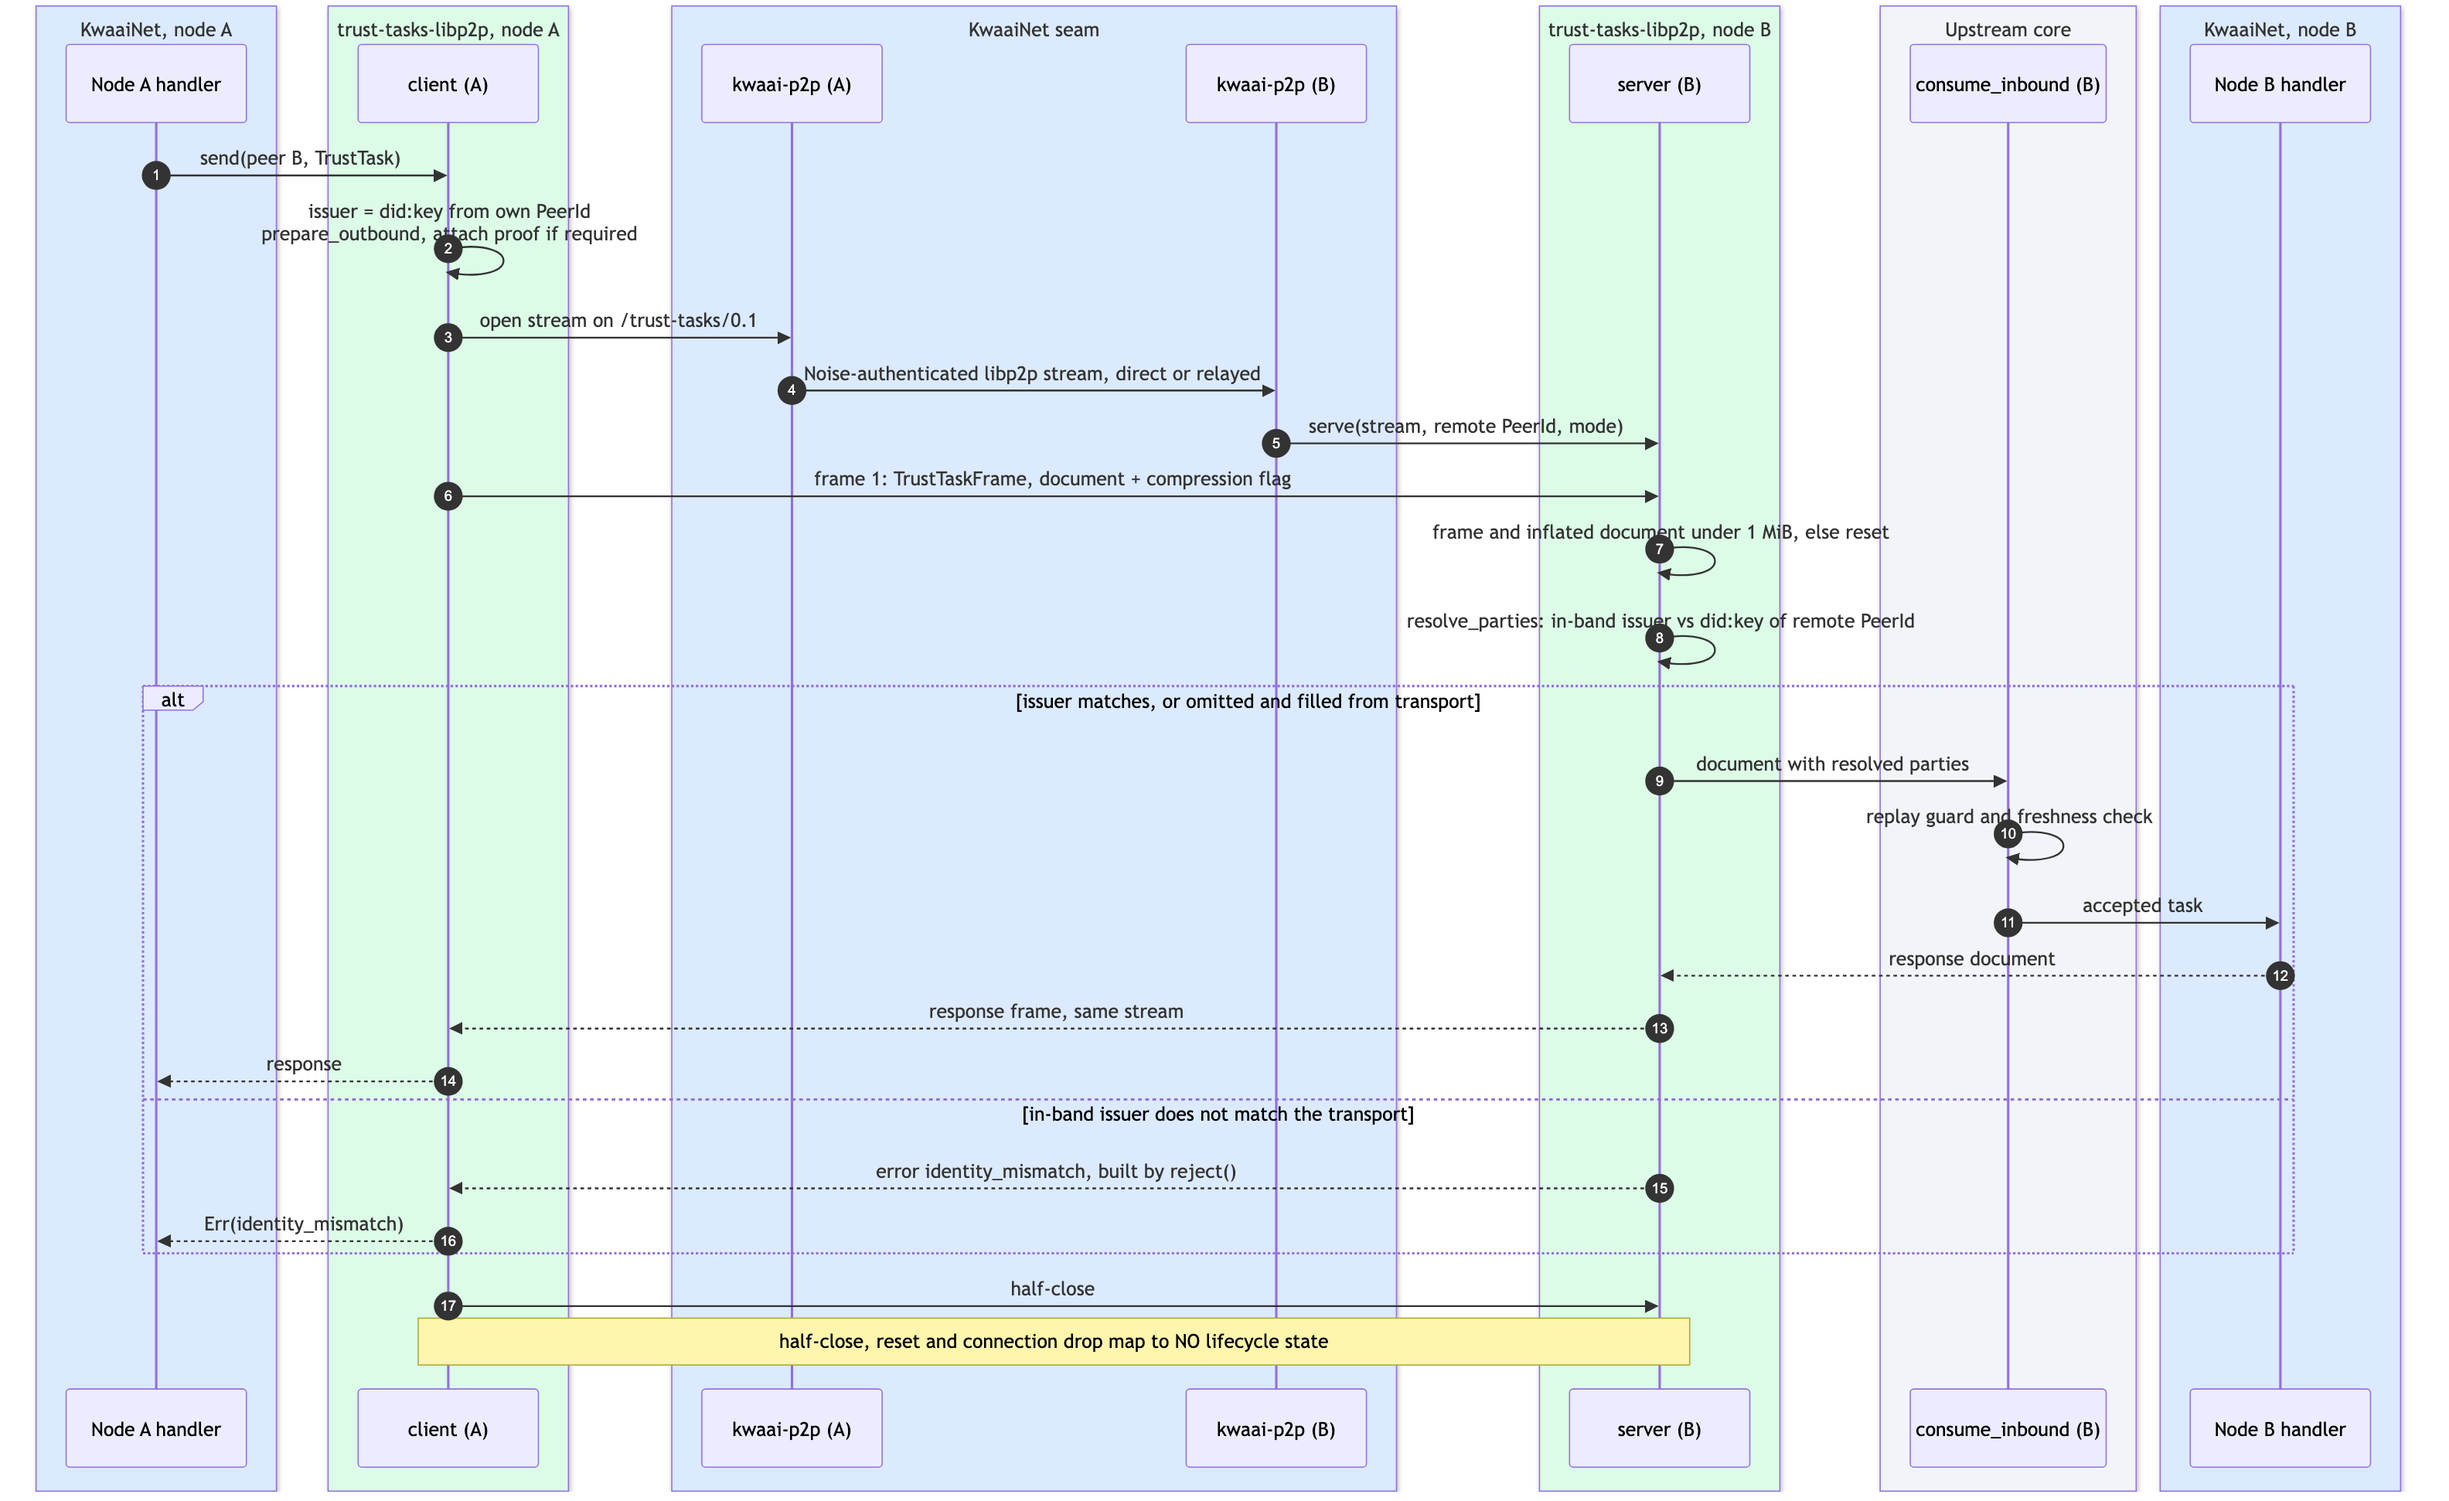
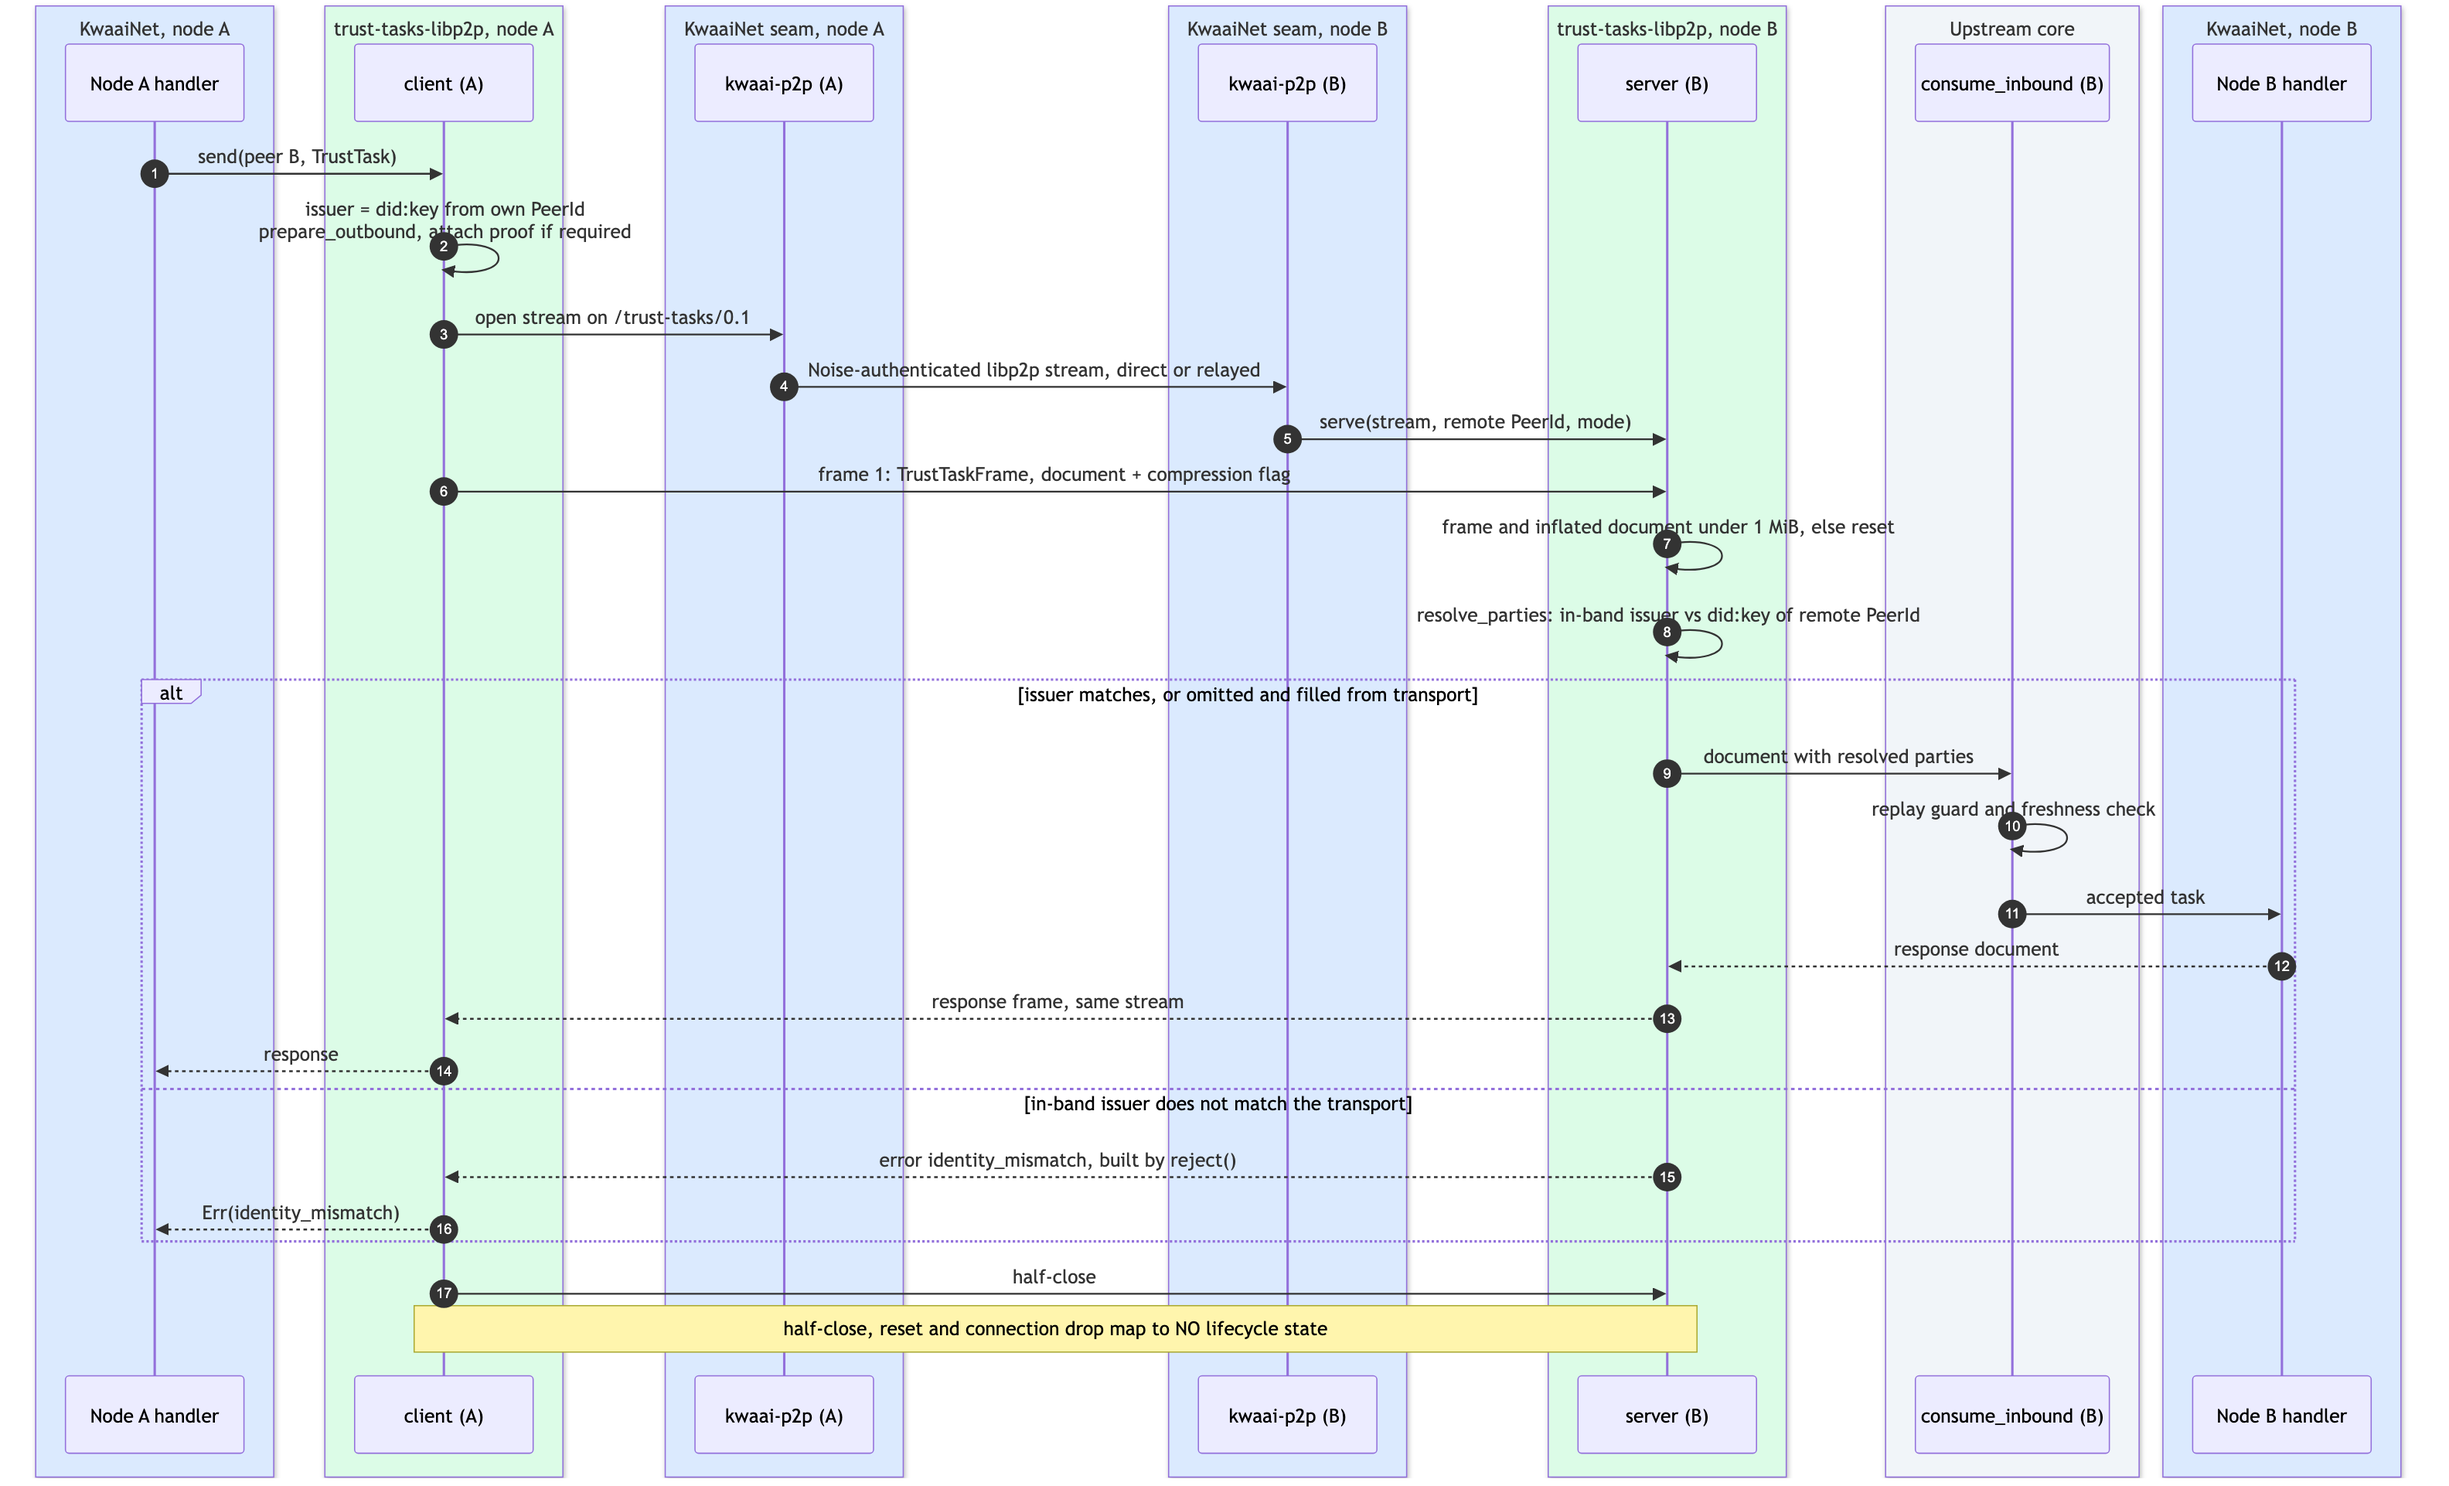
docs(trust): draw each node's KwaaiNet seam as its own component (#253)
Diagram 3 put kwaai-p2p (A) and kwaai-p2p (B) in one KwaaiNet seam box, which read as a single component spanning both nodes. Each node has its own seam, in its own process on its own machine, and the libp2p stream in step 4 is the only link between them. The box is now two, one per node, with step numbers unchanged. The PNG is regenerated with the doc's mmdc command; the old source reproduced the old PNG byte for byte, so the image changes only by the split. The captions, legend and plan narrative now say each node's seam. The proposal's pinned-SHA image (892ffb91) is left as posted to DTGWG.

diff --git a/projects/kwaai-trust/design/DTGWG-TrustStack-diagrams.md b/projects/kwaai-trust/design/DTGWG-TrustStack-diagrams.md
@@ -18,7 +18,7 @@ Ownership is the point of the design, so every diagram keeps it visible:
 
 | Colour | Owner | Changes when Trust Tasks changes? |
 |---|---|---|
-| Blue | KwaaiNet tree | **No** — only the `(PeerId, stream)` seam lives here |
+| Blue | KwaaiNet tree | **No** — only the `(PeerId, stream)` seam lives here, one per node |
 | Green | `trust-tasks-libp2p` — contributed by Kwaai, in the upstream workspace, co-maintained | Yes, carried by upstream's lockstep releases |
 | Grey | Upstream core (`trust-tasks-rs`) and third-party crates and services (OpenVTC, Affinidi) | Their releases |
 | Dashed | An open decision (diagram 6: the VTA) | — |
@@ -77,7 +77,7 @@ flowchart TB
     NET -- "authenticated PeerId + stream" --> B
 ```
 
-What crosses the KwaaiNet seam is only a stream, a `PeerId` and a direct/relayed flag.
+What crosses each node's KwaaiNet seam is only a stream, a `PeerId` and a direct/relayed flag.
 The Trust Task document, its parties, framing, the replay guard and the VID mapping all
 live in the contributed crate (green) or upstream (grey). That is why an upstream release
 does not touch our code.
@@ -212,8 +212,10 @@ sequenceDiagram
     box rgb(220,252,231) trust-tasks-libp2p, node A
     participant LA as client (A)
     end
-    box rgb(219,234,254) KwaaiNet seam
+    box rgb(219,234,254) KwaaiNet seam, node A
     participant PA as kwaai-p2p (A)
+    end
+    box rgb(219,234,254) KwaaiNet seam, node B
     participant PB as kwaai-p2p (B)
     end
     box rgb(220,252,231) trust-tasks-libp2p, node B
@@ -248,6 +250,13 @@ sequenceDiagram
     LA->>LB: half-close
     Note over LA,LB: half-close, reset and connection drop map to NO lifecycle state
 ```
+
+The two seams are separate components: `kwaai-p2p (A)` and `kwaai-p2p (B)` each run inside
+their own node's process, on their own machine, and share nothing. Step 4 is the only link
+between them, a Noise-authenticated libp2p stream over a direct or relayed connection. From
+step 6 on, frames travel over that stream, but the crate writes and reads them on each side;
+a seam only opens or accepts the stream and reports the remote PeerId and how it is
+connected.
 
 ## 4. Sequence — late response on a fresh stream
 

diff --git a/projects/kwaai-trust/plans/DTGWG-TrustStack-plan.md b/projects/kwaai-trust/plans/DTGWG-TrustStack-plan.md
@@ -123,14 +123,15 @@ A node may be a member of the **community**, the Kwaai VTC. The community issues
 
 ![Request, response and identity mismatch](../design/img/dtgwg-trust-stack/3-sequence-request-response.png)
 
-The coloured bands repeat the ownership split. Steps 1–5 open the stream: node A's client
-derives its issuer VID and asks `kwaai-p2p` for a stream; node B's `kwaai-p2p` hands the
-crate the stream with the remote PeerId and mode. The crate then checks the frame size and
-resolves the parties. If the issuer matches the transport identity (or was omitted and is
-filled in from it), upstream checks replay and freshness and the handler answers on the
-same stream. If it does not match, the crate's `reject()` returns `identity_mismatch` and
-nothing reaches the handler. Closing the stream ends the exchange but changes no task
-state.
+The coloured bands repeat the ownership split. Each node has its own seam, so the two
+`kwaai-p2p` bands are separate components, joined only by the libp2p stream in step 4.
+Steps 1–5 open the stream: node A's client derives its issuer VID and asks node A's
+`kwaai-p2p` for a stream; node B's `kwaai-p2p` hands node B's crate the stream with the
+remote PeerId and mode. The crate then checks the frame size and resolves the parties. If
+the issuer matches the transport identity (or was omitted and is filled in from it),
+upstream checks replay and freshness and the handler answers on the same stream. If it
+does not match, the crate's `reject()` returns `identity_mismatch` and nothing reaches the
+handler. Closing the stream ends the exchange but changes no task state.
 
 ### Sequence: work that outlives its stream
 
